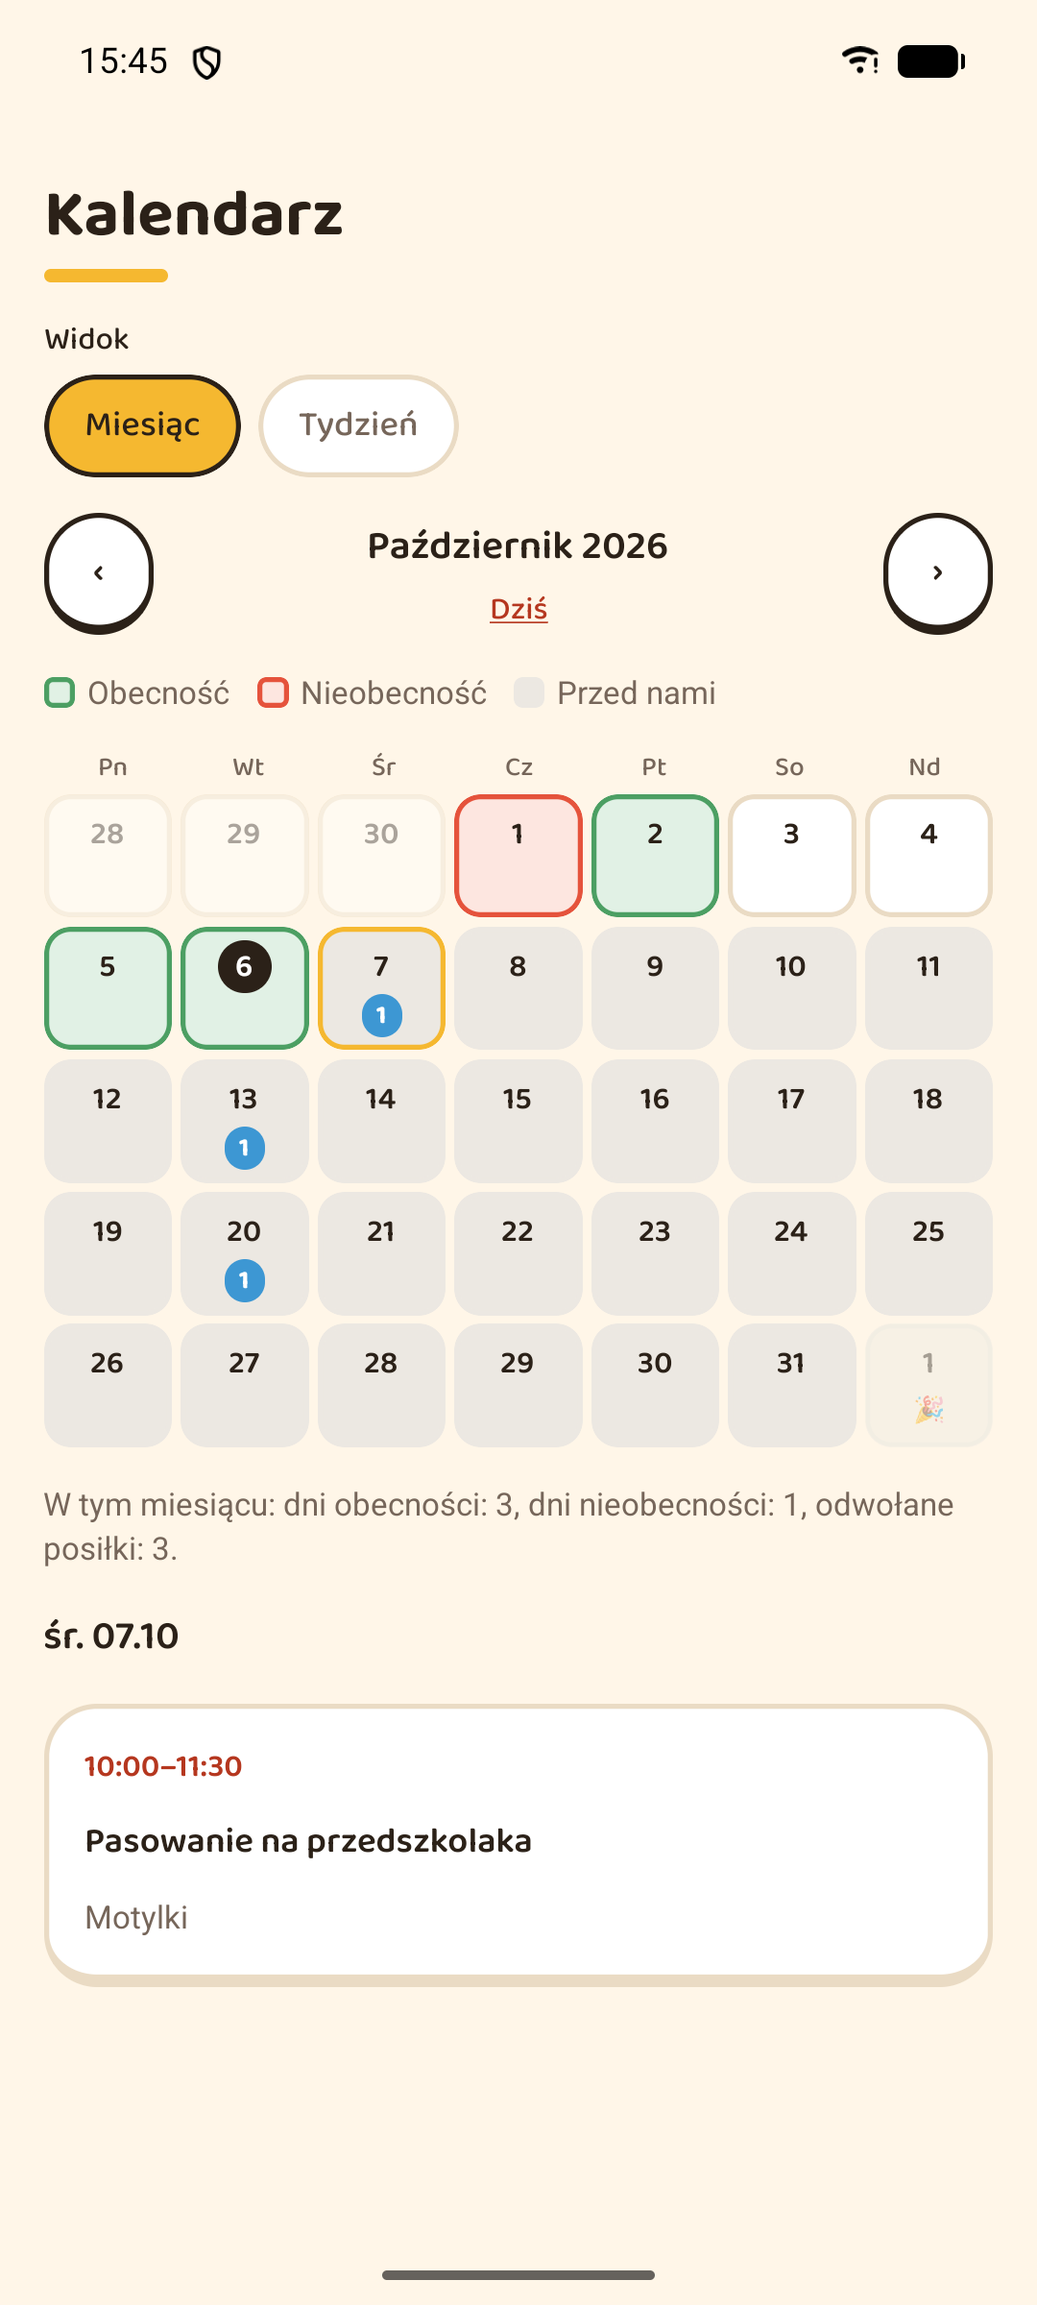
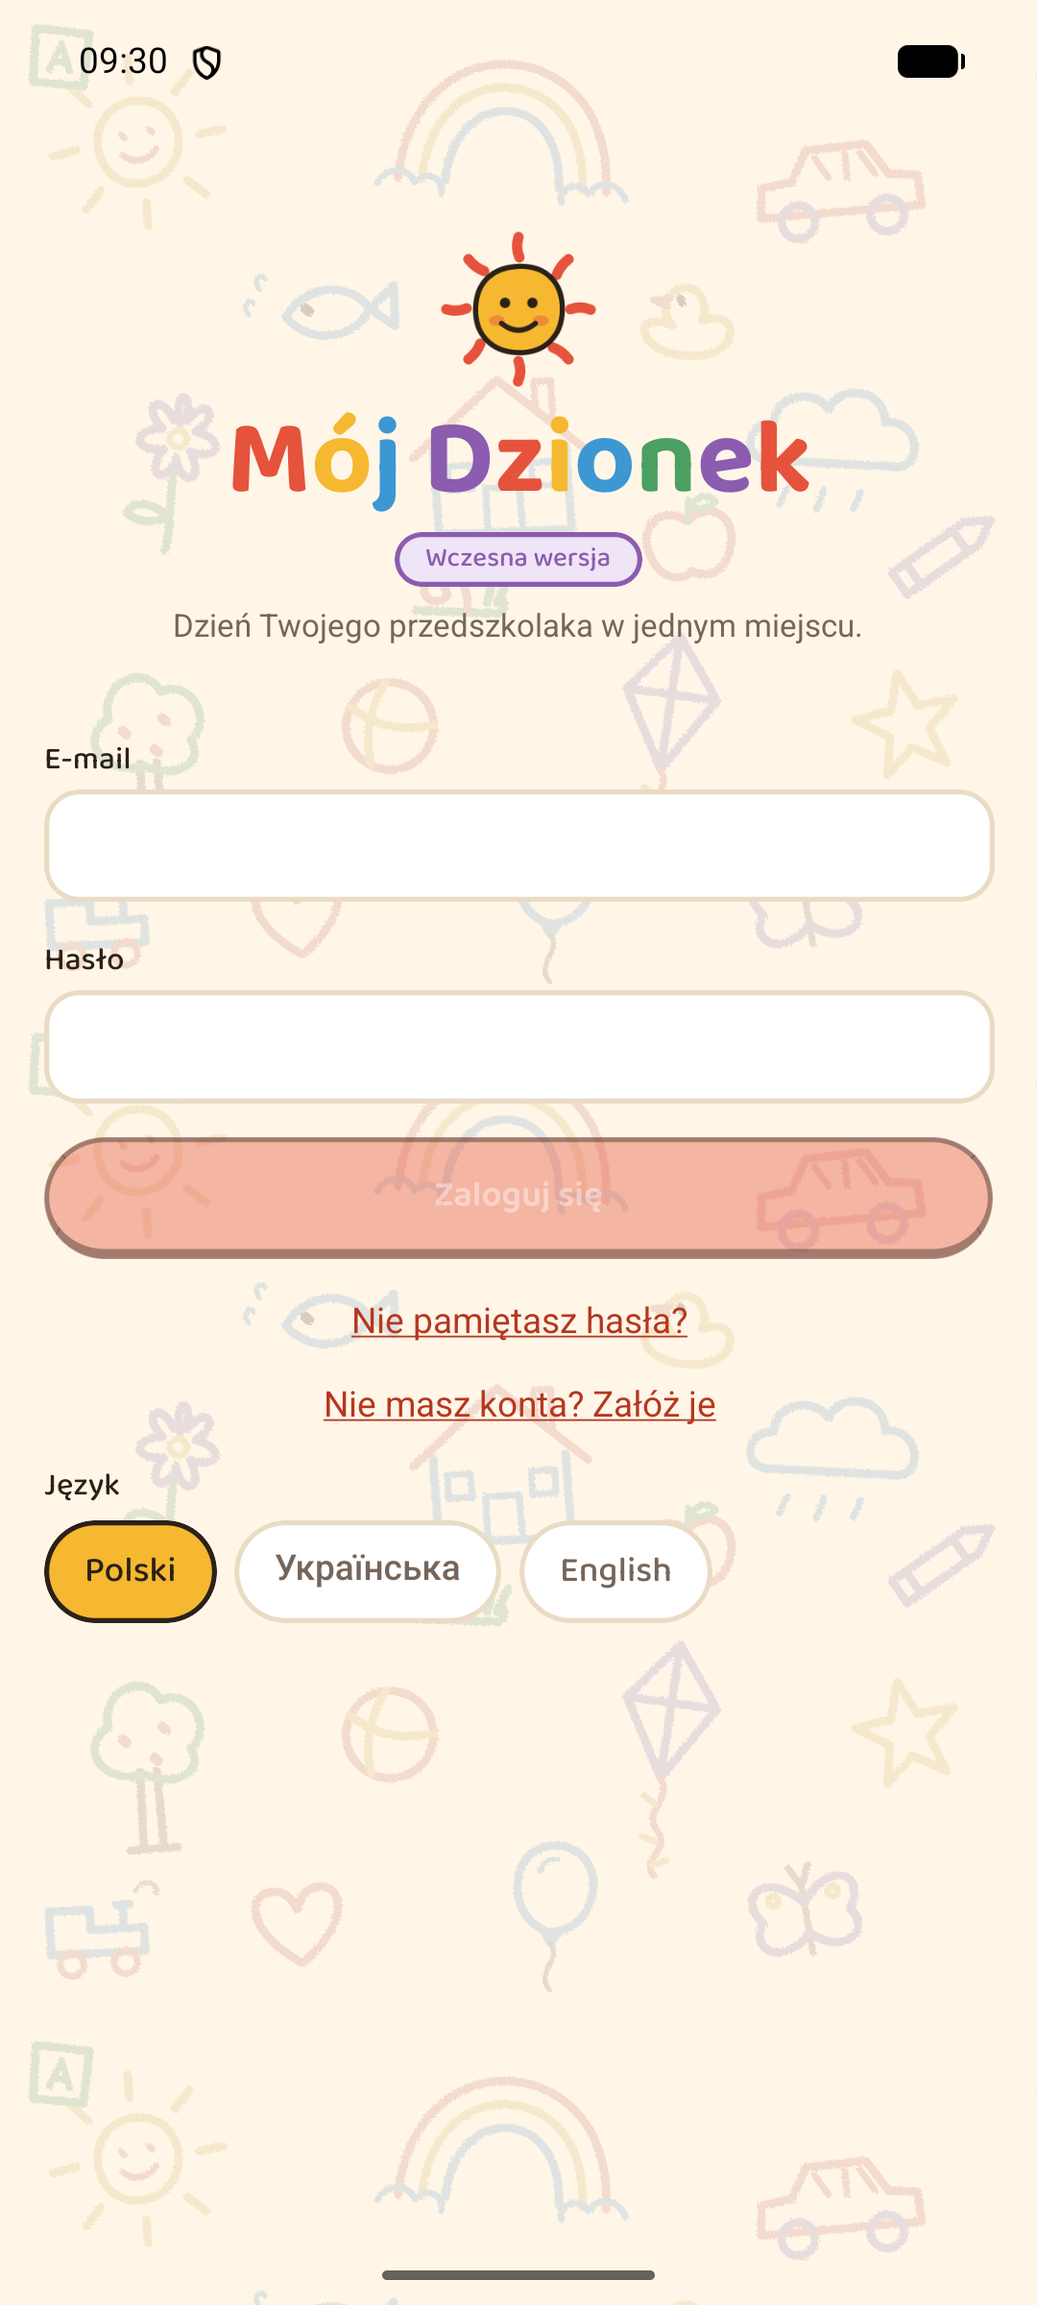
Mój Dzionek entry: two screenshots and a vaguer description
Claude-Session: https://claude.ai/code/session_015mC8ZwdYpnQU3NrvnEkAfG

diff --git a/apps/mojdzionek.html b/apps/mojdzionek.html
@@ -4,20 +4,20 @@
   <meta charset="UTF-8" />
   <meta name="viewport" content="width=device-width, initial-scale=1.0" />
   <title>Mój Dzionek | SB Dev Works</title>
-  <meta name="description" content="Mój Dzionek: a preschool's day in parents' pockets: the daily report, messages, absences, pickups, a calendar, the menu and a group photo gallery, with a web panel for the director." />
+  <meta name="description" content="Mój Dzionek: a preschool's day in parents' pockets, with everyday contact between the preschool and families in one app and a web panel for the director." />
   <link rel="canonical" href="https://sbdevworks.com/apps/mojdzionek.html" />
   <meta property="og:type" content="website" />
   <meta property="og:site_name" content="SB Dev Works" />
   <meta property="og:title" content="Mój Dzionek | SB Dev Works" />
-  <meta property="og:description" content="Mój Dzionek: a preschool's day in parents' pockets: the daily report, messages, absences, pickups, a calendar, the menu and a group photo gallery, with a web panel for the director." />
+  <meta property="og:description" content="Mój Dzionek: a preschool's day in parents' pockets, with everyday contact between the preschool and families in one app and a web panel for the director." />
   <meta property="og:url" content="https://sbdevworks.com/apps/mojdzionek.html" />
-  <meta property="og:image" content="https://sbdevworks.com/assets/shots/mojdzionek-1.png?v=2" />
+  <meta property="og:image" content="https://sbdevworks.com/assets/shots/mojdzionek-1.png?v=3" />
   <meta name="twitter:card" content="summary_large_image" />
   <link rel="icon" type="image/png" href="../assets/logo-64.png" />
   <link rel="preconnect" href="https://fonts.googleapis.com" />
   <link rel="preconnect" href="https://fonts.gstatic.com" crossorigin />
   <link rel="stylesheet" href="https://fonts.googleapis.com/css2?family=Martian+Mono:wdth,wght@75..112.5,400..700&display=swap" />
-  <link rel="stylesheet" href="../styles.css?v=2026-11-19b" />
+  <link rel="stylesheet" href="../styles.css?v=2026-11-19c" />
 </head>
 <body>
 
@@ -42,7 +42,7 @@
       <section class="detail-hero">
         <div class="status-pill live">Live</div>
         <h1>Mój Dzionek</h1>
-        <p class="detail-tagline">A preschool’s day in parents’ pockets: the daily report, messages and a group chat, notes from the teachers, absences, pickups, a calendar, the menu and the month’s payments, with a web panel for the director. Made for Polish preschools and the families they serve.</p>
+        <p class="detail-tagline">A preschool’s day in parents’ pockets: everyday contact between the preschool and families in one app, with a web panel for the director. Made for Polish preschools and the families they serve.</p>
         <div class="tags">
           <span class="tag">React Native</span>
           <span class="tag">Expo</span>
@@ -54,77 +54,27 @@
 
       <section class="detail-section">
         <h2>Overview</h2>
-        <p>Mój Dzionek (Polish for “my little day”) connects a preschool with the families it looks after. Teachers record the day as it happens (who arrived, what they ate, how long they slept), and parents see it on their phones the same afternoon, along with messages, the group chat, the group’s photo gallery, the calendar and the menu.</p>
-        <p>It is built around how a preschool group actually works: one shared tablet per group with a personal PIN for each teacher, entries made for the whole group in one tap, and the day-to-day logistics of absences, meals and pickups handled in the same place. The director runs the preschool from a web panel. Parents can use the app in Polish, Ukrainian or English. A preschool pays one flat price, 149 zł net a month with everything included and a 30-day free trial; parents never pay. The screenshots show the demo preschool in Polish.</p>
+        <p>Mój Dzionek (Polish for “my little day”) connects a preschool with the families it looks after. Parents follow their child’s day on their phones, teachers share it without extra paperwork, and the director runs the preschool from a web panel. It is in a pilot with its first preschool; parents never pay.</p>
       </section>
 
       <section class="detail-section">
-        <h2>For parents</h2>
-        <div class="gallery">
-          <a href="../assets/shots/mojdzionek-1.png?v=2"><img src="../assets/shots/mojdzionek-1.png?v=2" alt="A child’s day as the parent sees it: arrival, breakfast, a walk, painting and lunch, with the grandmother chosen to collect her today" loading="lazy" /></a>
-          <a href="../assets/shots/mojdzionek-2.png?v=2"><img src="../assets/shots/mojdzionek-2.png?v=2" alt="The month calendar: green days present, a red day absent, events counted per day and an outing card for the selected day, with the month’s totals" loading="lazy" /></a>
-          <a href="../assets/shots/mojdzionek-3.png?v=2"><img src="../assets/shots/mojdzionek-3.png?v=2" alt="The group chat of the Motylki group, with the director, a teacher and a parent" loading="lazy" /></a>
-          <a href="../assets/shots/mojdzionek-4.png?v=2"><img src="../assets/shots/mojdzionek-4.png?v=2" alt="Reporting an absence, with past and upcoming absences and their cancelled meals" loading="lazy" /></a>
+        <h2>Screenshots</h2>
+        <div class="gallery gallery-pair">
+          <a href="../assets/shots/mojdzionek-1.png?v=3"><img src="../assets/shots/mojdzionek-1.png?v=3" alt="The Mój Dzionek homepage: “Dzień przedszkolaka w telefonie rodzica”, a preschooler’s day on the parent’s phone, under a smiling sun" loading="lazy" /></a>
+          <a href="../assets/shots/mojdzionek-2.png?v=3"><img src="../assets/shots/mojdzionek-2.png?v=3" alt="The app’s sign-in screen on an Android phone, with a choice of Polish, Ukrainian or English" loading="lazy" /></a>
         </div>
-        <ul class="feature-list">
-          <li>The child’s day on the phone: arrival and departure, meals, nap, mood, activities and the teacher’s notes, with an evening notification that the summary is ready</li>
-          <li>Absences reported in the app; one reported before the morning cut-off cancels that day’s meals too</li>
-          <li>Who is collecting the child today, picked from the people the parent has authorised</li>
-          <li>A month and week calendar with attendance colours, events and holidays, which can also be added to Google or Apple Calendar</li>
-          <li>Private messages with the group’s teachers, a chat for the whole group, chats with other children’s parents (first name, surname initial and group only; any family can opt out or block another, and report a message to the director), and announcements</li>
-          <li>Notes from the teachers about the child (praise, a remark or an incident) with a notification for each</li>
-          <li>The month’s payment with how it adds up (fee, meals, meals refunded for absences), where to pay, and an “I paid” button</li>
-          <li>The group’s photo gallery, seen only by the group’s families and staff, with photos to save on the phone</li>
-          <li>The weekly menu, the app in Polish, Ukrainian or English, and a choice of which notifications to get</li>
-        </ul>
       </section>
 
       <section class="detail-section">
-        <h2>For teachers</h2>
-        <div class="gallery">
-          <a href="../assets/shots/mojdzionek-5.png"><img src="../assets/shots/mojdzionek-5.png" alt="The teacher’s group day: three children selected, a note being written for all of them, with recently used notes one tap away" loading="lazy" /></a>
-          <a href="../assets/shots/mojdzionek-6.png"><img src="../assets/shots/mojdzionek-6.png" alt="The week’s menu with the kitchen’s count of meals to prepare per group" loading="lazy" /></a>
-          <a href="../assets/shots/mojdzionek-7.png"><img src="../assets/shots/mojdzionek-7.png" alt="A child’s card from the teacher’s side: allergies, and the people authorised to collect her with their ID document" loading="lazy" /></a>
-        </div>
+        <h2>Key features</h2>
         <ul class="feature-list">
-          <li>One entry for the whole group at once (arrival, meal, nap, mood, activity or note), then just the exceptions</li>
-          <li>Recently written notes come back as one-tap suggestions, and naps start at the usual time</li>
-          <li>A shared group tablet with a personal PIN for each teacher, so every entry is signed and private phones stay private</li>
-          <li>Pickup at the door: authorised people with their ID, today’s plan, and court restrictions enforced by the server</li>
-          <li>Allergies next to the menu, the kitchen’s meal count after absences, and last weeks’ menus to copy</li>
-          <li>Notes about a child for its parents (praise, a remark or an incident) showing which parents have read them</li>
-          <li>Photos for the group’s gallery from a phone or the tablet, with the children who have no photo consent listed before sending</li>
-          <li>No notifications outside the preschool’s working hours</li>
-        </ul>
-      </section>
-
-      <section class="detail-section">
-        <h2>For the director</h2>
-        <div class="gallery gallery-wide">
-          <a href="../assets/shots/mojdzionek-8.jpg"><img src="../assets/shots/mojdzionek-8.jpg" alt="The director’s web panel opening on today: each group’s attendance, who is absent and why, and who is collecting whom" loading="lazy" /></a>
-          <a href="../assets/shots/mojdzionek-9.jpg"><img src="../assets/shots/mojdzionek-9.jpg" alt="Writing an announcement to the whole preschool or one group, with how many parents read the earlier ones" loading="lazy" /></a>
-          <a href="../assets/shots/mojdzionek-10.jpg"><img src="../assets/shots/mojdzionek-10.jpg" alt="Printable invite codes, each with a QR code that opens the app with the code filled in" loading="lazy" /></a>
-          <a href="../assets/shots/mojdzionek-11.jpg"><img src="../assets/shots/mojdzionek-11.jpg" alt="The monthly attendance sheet of a group, with absences that cancelled meals, ready to download as CSV" loading="lazy" /></a>
-        </div>
-        <ul class="feature-list">
-          <li>A web panel that opens on today: attendance per group, absences with reasons and planned pickups</li>
-          <li>Announcements to the whole preschool or one group, with read counts</li>
-          <li>Children pasted in from a spreadsheet or loaded from another system’s CSV export, groups, the team and their roles, and a first-steps checklist for a new preschool</li>
-          <li>Messages parents reported from chats between families, to remove or leave as they are</li>
-          <li>Invite codes to print, each with a QR code for parents to scan</li>
-          <li>The month’s payments in one place instead of on paper: the fee and meals worked out per child, with last month’s cancelled meals taken off, any amount adjusted, and payments marked as they come in. Nothing is processed.</li>
-          <li>The monthly attendance and meals sheet as CSV, and figures on how the preschool uses the app</li>
-          <li>An audit log of every change, opening hours and the meal cut-off, how long gallery photos are kept, and the subscription with invoice details</li>
-        </ul>
-      </section>
-
-      <section class="detail-section">
-        <h2>Privacy by design</h2>
-        <ul class="feature-list">
-          <li>Everyone sees only their own: a parent their child, a teacher their groups, the director the whole preschool</li>
-          <li>Health details only with a parent’s consent, gone when it is withdrawn; nothing personal in notifications</li>
-          <li>Photos with no public address and no hidden location data, a register of parents’ photo consent, and photos deleted when the preschool’s chosen period ends</li>
-          <li>Data export and account deletion in the app; a child’s data removed 90 days after leaving, and someone left in no preschool anonymised</li>
+          <li>The child’s day on the parent’s phone</li>
+          <li>Contact between the preschool and families in one place, instead of notes on the door</li>
+          <li>Everyday preschool matters handled in the app</li>
+          <li>Quick to use for teachers during a busy day</li>
+          <li>A web panel for the director</li>
+          <li>Privacy first: everyone sees only what concerns them</li>
+          <li>For parents in Polish, Ukrainian or English</li>
         </ul>
       </section>
 

diff --git a/styles.css b/styles.css
@@ -4,8 +4,8 @@
 /* Hallmark · pre-emit critique: P4 H4 E4 S4 R5 V4 · weakest: P, a portfolio argues little; it leads with what is live and lets the paused work go unsaid */
 /* Hallmark · dropped "I care about high-quality code" and "I keep growing as both an engineer and a team leader" paragraphs, the About cut to three session entries · 58 names the screen budget */
 /* Hallmark · redesign: restyle on apps/*.html · their markup is kept, the shared stylesheet carries the new system */
-@import url("./tokens.css?v=2026-11-19b");
-@import url("./base.css?v=2026-11-19b");
+@import url("./tokens.css?v=2026-11-19c");
+@import url("./base.css?v=2026-11-19c");
 
 :root {
   --header-height: 64px;
@@ -560,6 +560,12 @@ a:active {
   grid-template-columns: repeat(2, minmax(0, 1fr));
 }
 
+/* A desktop shot beside a phone shot, both the same height. */
+.gallery-pair {
+  grid-template-columns: minmax(0, 3.55fr) minmax(0, 1fr);
+  align-items: start;
+}
+
 .gallery a {
   display: block;
   overflow: hidden;
@@ -647,7 +653,8 @@ a:active {
     grid-template-columns: repeat(2, minmax(0, 1fr));
   }
 
-  .gallery-wide {
+  .gallery-wide,
+  .gallery-pair {
     grid-template-columns: minmax(0, 1fr);
   }
 }

diff --git a/index.html b/index.html
@@ -17,7 +17,7 @@
   <link rel="preconnect" href="https://fonts.googleapis.com" />
   <link rel="preconnect" href="https://fonts.gstatic.com" crossorigin />
   <link rel="stylesheet" href="https://fonts.googleapis.com/css2?family=Martian+Mono:wdth,wght@75..112.5,400..700&display=swap" />
-  <link rel="stylesheet" href="styles.css?v=2026-11-19b" />
+  <link rel="stylesheet" href="styles.css?v=2026-11-19c" />
   <script>document.documentElement.classList.add("js");</script>
 </head>
 <body>
@@ -157,10 +157,10 @@
     </div>
   </footer>
 
-  <script src="projects.js?v=2026-11-19b"></script>
-  <script src="script.js?v=2026-11-19b"></script>
-  <script src="logo-glyphs.js?v=2026-11-19b"></script>
-  <script src="logo-art.js?v=2026-11-19b"></script>
+  <script src="projects.js?v=2026-11-19c"></script>
+  <script src="script.js?v=2026-11-19c"></script>
+  <script src="logo-glyphs.js?v=2026-11-19c"></script>
+  <script src="logo-art.js?v=2026-11-19c"></script>
   <script src="year.js"></script>
 </body>
 </html>

diff --git a/projects.js b/projects.js
@@ -16,10 +16,10 @@ const PROJECTS = [
     slug: "mojdzionek",
     status: "Live",
     statusClass: "live",
-    blurb: "A preschool's day in parents' pockets: the daily report, messages, notes, absences, pickups, a calendar, the group's photo gallery and the month's payments, with a web panel for the director.",
+    blurb: "A preschool's day in parents' pockets: everyday contact between the preschool and families in one app, with a web panel for the director.",
     tags: ["React Native","Expo","Kotlin","Ktor"],
-    image: "assets/shots/mojdzionek-1.png?v=2",
-    imageTall: true,
+    image: "assets/shots/mojdzionek-1.png?v=3",
+    imageTall: false,
   },
   {
     name: "Zium",

diff --git a/apps/arcade.html b/apps/arcade.html
@@ -17,7 +17,7 @@
   <link rel="preconnect" href="https://fonts.googleapis.com" />
   <link rel="preconnect" href="https://fonts.gstatic.com" crossorigin />
   <link rel="stylesheet" href="https://fonts.googleapis.com/css2?family=Martian+Mono:wdth,wght@75..112.5,400..700&display=swap" />
-  <link rel="stylesheet" href="../styles.css?v=2026-11-19b" />
+  <link rel="stylesheet" href="../styles.css?v=2026-11-19c" />
 </head>
 <body>
 

diff --git a/apps/archeryhelper.html b/apps/archeryhelper.html
@@ -18,7 +18,7 @@
   <link rel="preconnect" href="https://fonts.googleapis.com" />
   <link rel="preconnect" href="https://fonts.gstatic.com" crossorigin />
   <link rel="stylesheet" href="https://fonts.googleapis.com/css2?family=Martian+Mono:wdth,wght@75..112.5,400..700&display=swap" />
-  <link rel="stylesheet" href="../styles.css?v=2026-11-19b" />
+  <link rel="stylesheet" href="../styles.css?v=2026-11-19c" />
 </head>
 <body>
 

diff --git a/apps/brownmap.html b/apps/brownmap.html
@@ -18,7 +18,7 @@
   <link rel="preconnect" href="https://fonts.googleapis.com" />
   <link rel="preconnect" href="https://fonts.gstatic.com" crossorigin />
   <link rel="stylesheet" href="https://fonts.googleapis.com/css2?family=Martian+Mono:wdth,wght@75..112.5,400..700&display=swap" />
-  <link rel="stylesheet" href="../styles.css?v=2026-11-19b" />
+  <link rel="stylesheet" href="../styles.css?v=2026-11-19c" />
 </head>
 <body>
 

diff --git a/apps/doorwell.html b/apps/doorwell.html
@@ -18,7 +18,7 @@
   <link rel="preconnect" href="https://fonts.googleapis.com" />
   <link rel="preconnect" href="https://fonts.gstatic.com" crossorigin />
   <link rel="stylesheet" href="https://fonts.googleapis.com/css2?family=Martian+Mono:wdth,wght@75..112.5,400..700&display=swap" />
-  <link rel="stylesheet" href="../styles.css?v=2026-11-19b" />
+  <link rel="stylesheet" href="../styles.css?v=2026-11-19c" />
 </head>
 <body>
 

diff --git a/apps/haveneasy.html b/apps/haveneasy.html
@@ -18,7 +18,7 @@
   <link rel="preconnect" href="https://fonts.googleapis.com" />
   <link rel="preconnect" href="https://fonts.gstatic.com" crossorigin />
   <link rel="stylesheet" href="https://fonts.googleapis.com/css2?family=Martian+Mono:wdth,wght@75..112.5,400..700&display=swap" />
-  <link rel="stylesheet" href="../styles.css?v=2026-11-19b" />
+  <link rel="stylesheet" href="../styles.css?v=2026-11-19c" />
 </head>
 <body>
 

diff --git a/apps/odomo.html b/apps/odomo.html
@@ -18,7 +18,7 @@
   <link rel="preconnect" href="https://fonts.googleapis.com" />
   <link rel="preconnect" href="https://fonts.gstatic.com" crossorigin />
   <link rel="stylesheet" href="https://fonts.googleapis.com/css2?family=Martian+Mono:wdth,wght@75..112.5,400..700&display=swap" />
-  <link rel="stylesheet" href="../styles.css?v=2026-11-19b" />
+  <link rel="stylesheet" href="../styles.css?v=2026-11-19c" />
 </head>
 <body>
 

diff --git a/apps/polldrop.html b/apps/polldrop.html
@@ -18,7 +18,7 @@
   <link rel="preconnect" href="https://fonts.googleapis.com" />
   <link rel="preconnect" href="https://fonts.gstatic.com" crossorigin />
   <link rel="stylesheet" href="https://fonts.googleapis.com/css2?family=Martian+Mono:wdth,wght@75..112.5,400..700&display=swap" />
-  <link rel="stylesheet" href="../styles.css?v=2026-11-19b" />
+  <link rel="stylesheet" href="../styles.css?v=2026-11-19c" />
 </head>
 <body>
 

diff --git a/apps/procrastio.html b/apps/procrastio.html
@@ -18,7 +18,7 @@
   <link rel="preconnect" href="https://fonts.googleapis.com" />
   <link rel="preconnect" href="https://fonts.gstatic.com" crossorigin />
   <link rel="stylesheet" href="https://fonts.googleapis.com/css2?family=Martian+Mono:wdth,wght@75..112.5,400..700&display=swap" />
-  <link rel="stylesheet" href="../styles.css?v=2026-11-19b" />
+  <link rel="stylesheet" href="../styles.css?v=2026-11-19c" />
 </head>
 <body>
 
